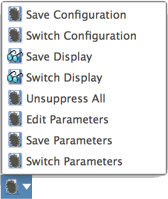
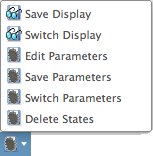
removed Suppress references from Read me

diff --git a/README.md b/README.md
@@ -12,19 +12,9 @@ After downloading the zip file follow the [installation instructions here](https
 
 ## Usage:
 This addin allows you to save and retrieve:
- - The suppresion of features in the timeline 
  - The display of components in the graphics window
  - The values of user defined parameters in the design
 
-
-### Suppression State
-**Save Configuration** will save the current suppression state of all features in the timeline.
-
-**Switch Configuration** allows you to select a saved configuration from the drop down. The suppression state of features will revert to that previously saved condition.  
-- New features added after the state was saved will retain their current state.  
-- Selecting Current or cancel will revert to the suppression state of all components when you entered the command.
-
-**Unsuppress All** will simply unsuppress all features in the timeline.  This can be a useful utility when creating configurations.
 
 ### Display State
 **Save Display** will save the current display state (lightbulb on/off) of all _components_ in the timeline.
@@ -44,10 +34,11 @@ This addin allows you to save and retrieve:
 
 **Edit Parameters** allows you to easily modify the values of all user parameters.  See realtime feedback on the changes.
 
-## Limitations
-  * Currently no way to delete saved states
-  * Seen issues with more complex history trees failing when you unsuppress many features at once.
+### Delete States
 
+**Select Parameters or Display States** then check the boxes for the states you want to delete.
+
+Note: There is _no undo_ for this action
 
 ## License
 Samples are licensed under the terms of the [MIT License](http://opensource.org/licenses/MIT). Please see the [LICENSE](LICENSE) file for full details.
